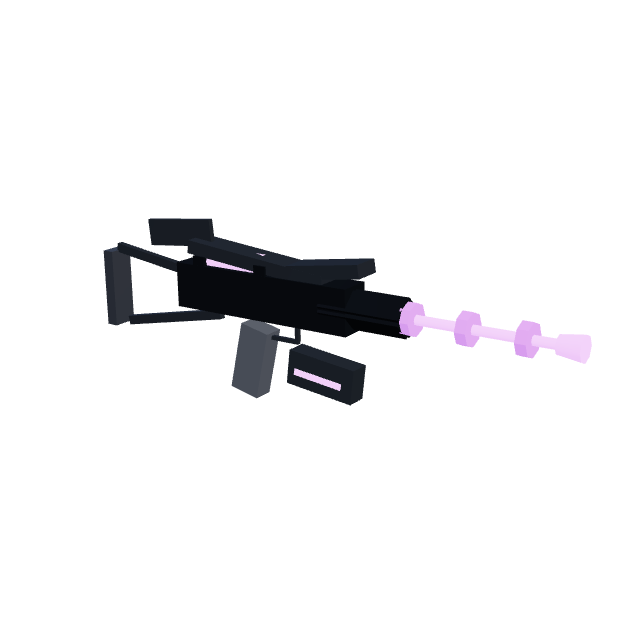
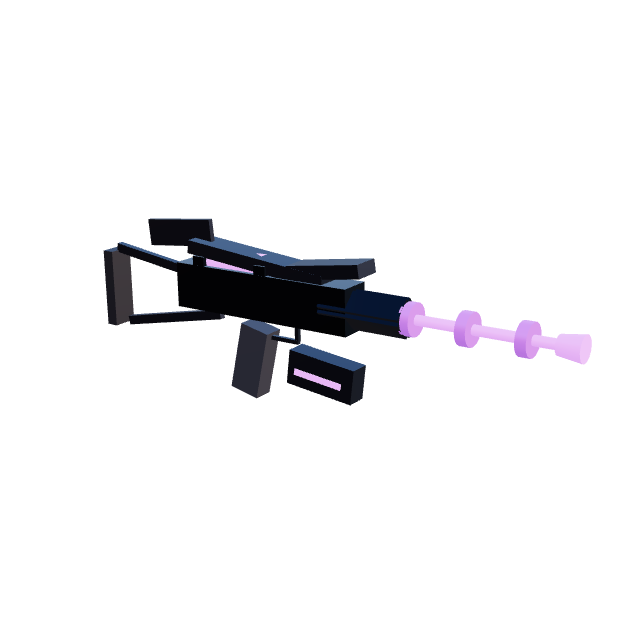
feat(art): PBR + HDRI reflections on the marketplace weapon/item art
Overhauls the procedural gun/item materials toward real gunmetal: drops
flat-shading, raises metalness with a strong envMapIntensity, adds an HDRI
environment (venice_sunset) to the bake scene so metal actually reflects, uses
a clearcoat physical material for polymer furniture, and rounds the barrels
(higher cylinder segments). Re-tunes the bake lighting/exposure so reflections
read instead of blowing out, and re-bakes all 13 catalogue PNGs. Bake script
now retries the transient dev-mode empty-frame error.

An incremental 'more real' lift, but the box geometry is the ceiling — reaching
'actual real assets' needs modeled/generated meshes (next step, TBD).

Changed region(s): [[0.2812, 0.375, 0.9062, 0.5625], [0.3438, 0.5, 0.5625, 0.625], [0.1875, 0.375, 0.25, 0.4062]]

diff --git a/apps/web/src/engine/scene/GunMesh.ts b/apps/web/src/engine/scene/GunMesh.ts
@@ -17,10 +17,13 @@ import type { GunId } from '../combat/GunStats';
  */
 
 // ── Shared palette ────────────────────────────────────────────────────────────
-const METAL_DARK = 0x252a32; // receivers, slides
-const METAL = 0x39404a;      // secondary metal
-const POLYMER = 0x424750;    // furniture: grips, stocks, handguards
-const POLYMER_DARK = 0x2c313a;
+// Real gunmetal is near-black with a cold blue cast; the polymer furniture is a
+// desaturated graphite. The realism comes less from colour than from PBR values
+// + an environment map (set via scene.environment) that these surfaces reflect.
+const METAL_DARK = 0x2b313a; // receivers, slides — blued steel that catches light
+const METAL = 0x3c434e;      // secondary metal — parkerised grey
+const POLYMER = 0x363b43;    // furniture: grips, stocks, handguards
+const POLYMER_DARK = 0x21252b;
 
 interface GunKit {
   body: THREE.MeshStandardMaterial;
@@ -40,15 +43,25 @@ const ACCENTS: Record<GunId, { color: number; glow: number }> = {
   legendary:     { color: 0xb070ff, glow: 1.5 },
 };
 
+/** Molded-polymer furniture: matte with a faint clearcoat sheen, not shiny. */
+function polymer(color: number, roughness: number): THREE.MeshPhysicalMaterial {
+  return new THREE.MeshPhysicalMaterial({
+    color, metalness: 0.0, roughness,
+    clearcoat: 0.35, clearcoatRoughness: 0.55, envMapIntensity: 0.8,
+  });
+}
+
 function makeKit(gunId: GunId): GunKit {
   const a = ACCENTS[gunId];
   return {
-    body: new THREE.MeshStandardMaterial({ color: METAL_DARK, metalness: 0.7, roughness: 0.38, flatShading: true }),
-    metal: new THREE.MeshStandardMaterial({ color: METAL, metalness: 0.65, roughness: 0.42, flatShading: true }),
-    furn: new THREE.MeshStandardMaterial({ color: POLYMER, metalness: 0.15, roughness: 0.7, flatShading: true }),
-    furnDark: new THREE.MeshStandardMaterial({ color: POLYMER_DARK, metalness: 0.2, roughness: 0.65, flatShading: true }),
-    accent: new THREE.MeshStandardMaterial({ color: a.color, metalness: 0.45, roughness: 0.4, emissive: a.color, emissiveIntensity: a.glow * 0.4, flatShading: true }),
-    glow: new THREE.MeshStandardMaterial({ color: a.color, emissive: a.color, emissiveIntensity: a.glow, metalness: 0.2, roughness: 0.35 }),
+    // Blued/parkerised steel: high metalness, mid-low roughness, and a strong
+    // envMapIntensity so it actually catches reflections and reads as metal.
+    body: new THREE.MeshStandardMaterial({ color: METAL_DARK, metalness: 0.95, roughness: 0.3, envMapIntensity: 1.8 }),
+    metal: new THREE.MeshStandardMaterial({ color: METAL, metalness: 0.9, roughness: 0.4, envMapIntensity: 1.5 }),
+    furn: polymer(POLYMER, 0.58),
+    furnDark: polymer(POLYMER_DARK, 0.62),
+    accent: new THREE.MeshStandardMaterial({ color: a.color, metalness: 0.55, roughness: 0.35, emissive: a.color, emissiveIntensity: a.glow * 0.4, envMapIntensity: 1.0 }),
+    glow: new THREE.MeshStandardMaterial({ color: a.color, emissive: a.color, emissiveIntensity: a.glow, metalness: 0.2, roughness: 0.3, envMapIntensity: 0.6 }),
     group: new THREE.Group(),
   };
 }
@@ -63,9 +76,10 @@ function box(k: GunKit, mat: THREE.Material, w: number, h: number, d: number,
   return m;
 }
 
-/** Cylinder whose axis runs along local +Z (the barrel direction). */
+/** Cylinder whose axis runs along local +Z (the barrel direction). Default sides
+ *  are high so barrels/suppressors read as round steel, not faceted toys. */
 function zCyl(k: GunKit, mat: THREE.Material, r0: number, r1: number, len: number,
-  x: number, y: number, z: number, sides = 10): THREE.Mesh {
+  x: number, y: number, z: number, sides = 24): THREE.Mesh {
   const m = new THREE.Mesh(new THREE.CylinderGeometry(r0, r1, len, sides), mat);
   m.rotation.x = Math.PI / 2;
   m.position.set(x, y, z);
@@ -141,8 +155,8 @@ function buildSmg(): THREE.Group {
   box(k, k.metal, 0.006, 0.006, 0.055, 0, -0.006, 0.026);
   box(k, k.metal, 0.006, 0.030, 0.006, 0, 0.008, 0.052);
   // collapsed wire stock: twin rods + butt plate
-  zCyl(k, k.metal, 0.006, 0.006, 0.130, 0.014, 0.052, -0.195, 6);
-  zCyl(k, k.metal, 0.006, 0.006, 0.130, -0.014, 0.052, -0.195, 6);
+  zCyl(k, k.metal, 0.006, 0.006, 0.130, 0.014, 0.052, -0.195, 16);
+  zCyl(k, k.metal, 0.006, 0.006, 0.130, -0.014, 0.052, -0.195, 16);
   box(k, k.furnDark, 0.052, 0.072, 0.016, 0, 0.044, -0.266);
   // ejection port
   box(k, k.accent, 0.002, 0.016, 0.040, 0.026, 0.058, -0.020);
@@ -181,7 +195,7 @@ function buildAssaultRifle(): THREE.Group {
   box(k, k.metal, 0.006, 0.006, 0.056, 0, -0.008, 0.030);
   box(k, k.metal, 0.006, 0.032, 0.006, 0, 0.008, 0.056);
   // buffer tube + fixed stock with cheek riser + butt pad
-  zCyl(k, k.metal, 0.015, 0.015, 0.100, 0, 0.070, -0.160, 8);
+  zCyl(k, k.metal, 0.015, 0.015, 0.100, 0, 0.070, -0.160, 16);
   box(k, k.furn, 0.040, 0.088, 0.140, 0, 0.036, -0.262);
   box(k, k.furn, 0.036, 0.026, 0.110, 0, 0.094, -0.256);
   box(k, k.furnDark, 0.046, 0.104, 0.016, 0, 0.032, -0.336);
@@ -219,7 +233,7 @@ function buildMarksman(): THREE.Group {
   );
   lens.position.set(0, 0.146, 0.1052);
   k.group.add(lens);
-  zCyl(k, k.metal, 0.010, 0.010, 0.016, 0, 0.178, -0.008, 8); // elevation turret
+  zCyl(k, k.metal, 0.010, 0.010, 0.016, 0, 0.178, -0.008, 16); // elevation turret
   box(k, k.metal, 0.030, 0.012, 0.014, 0.012, 0.146, -0.008); // windage turret
   // straight precision mag + accent base
   box(k, k.metal, 0.032, 0.100, 0.060, 0, -0.075, 0.060, 0.10);
@@ -235,8 +249,8 @@ function buildMarksman(): THREE.Group {
   box(k, k.furnDark, 0.046, 0.115, 0.018, 0, 0.024, -0.346);
   box(k, k.furn, 0.030, 0.050, 0.045, 0, -0.026, -0.290);
   // folded bipod legs under the handguard
-  zCyl(k, k.metal, 0.005, 0.005, 0.110, 0.016, 0.026, 0.320, 6);
-  zCyl(k, k.metal, 0.005, 0.005, 0.110, -0.016, 0.026, 0.320, 6);
+  zCyl(k, k.metal, 0.005, 0.005, 0.110, 0.016, 0.026, 0.320, 16);
+  zCyl(k, k.metal, 0.005, 0.005, 0.110, -0.016, 0.026, 0.320, 16);
 
   return finish(k, 'marksman', 0.058, 0.730);
 }
@@ -250,13 +264,13 @@ function buildLegendary(): THREE.Group {
   box(k, k.metal, 0.044, 0.020, 0.240, 0, 0.104, -0.010, 0.10);
   box(k, k.metal, 0.044, 0.020, 0.120, 0, 0.108, 0.110, -0.14);
   // exposed energy cell riding the spine
-  zCyl(k, k.glow, 0.019, 0.019, 0.095, 0, 0.096, -0.052, 8);
+  zCyl(k, k.glow, 0.019, 0.019, 0.095, 0, 0.096, -0.052, 16);
   box(k, k.body, 0.050, 0.016, 0.020, 0, 0.096, -0.108);
   box(k, k.body, 0.050, 0.016, 0.020, 0, 0.096, 0.004);
   // spine fin
   box(k, k.metal, 0.008, 0.040, 0.120, 0, 0.130, -0.160, -0.10);
   // emissive barrel rod inside a finned shroud
-  zCyl(k, k.glow, 0.0075, 0.0075, 0.360, 0, 0.056, 0.300, 8);
+  zCyl(k, k.glow, 0.0075, 0.0075, 0.360, 0, 0.056, 0.300, 16);
   for (const ang of [0.785, 2.356, 3.927, 5.498]) {
     const fin = box(k, k.body, 0.006, 0.034, 0.130, 0, 0.056, 0.170);
     fin.position.x = Math.cos(ang) * 0.020;
@@ -265,10 +279,10 @@ function buildLegendary(): THREE.Group {
   }
   // coil rings along the barrel
   for (let i = 0; i < 3; i++) {
-    zCyl(k, k.accent, 0.024, 0.024, 0.016, 0, 0.056, 0.240 + i * 0.085, 8);
+    zCyl(k, k.accent, 0.024, 0.024, 0.016, 0, 0.056, 0.240 + i * 0.085, 16);
   }
   // muzzle emitter ring
-  zCyl(k, k.glow, 0.019, 0.014, 0.035, 0, 0.056, 0.470, 8);
+  zCyl(k, k.glow, 0.019, 0.014, 0.035, 0, 0.056, 0.470, 16);
   // underslung capacitor with charge strip
   box(k, k.metal, 0.032, 0.052, 0.110, 0, -0.048, 0.100, 0.12);
   box(k, k.glow, 0.034, 0.010, 0.080, 0, -0.052, 0.096, 0.12);

diff --git a/apps/web/src/app/dev/bake-items/page.tsx b/apps/web/src/app/dev/bake-items/page.tsx
@@ -9,6 +9,7 @@
 import { Suspense, useLayoutEffect, useMemo } from 'react';
 import { useSearchParams } from 'next/navigation';
 import { Canvas, useThree } from '@react-three/fiber';
+import { Environment } from '@react-three/drei';
 import * as THREE from 'three';
 import { makeGunMesh } from '@/engine/scene/GunMesh';
 import { makeItemMesh, type ItemMeshId, ITEM_MESH_IDS } from '@/engine/scene/ItemMesh';
@@ -79,18 +80,24 @@ function BakeInner() {
         camera={{ fov: 30, position: [0, 0.2, 1.2] }}
         onCreated={({ gl, scene, camera }) => {
           gl.setClearColor(0x000000, 0);
-          gl.toneMappingExposure = 1.5;
+          // Lower exposure so the HDRI's specular highlights survive instead of
+          // blowing out to flat white — that's what sells the metal.
+          gl.toneMappingExposure = 1.05;
           scene.background = null;
           camera.lookAt(0, 0, 0);
         }}
         style={{ width: 640, height: 640 }}
       >
-        {/* Studio product lighting: warm key, cool rim, bounce fill */}
-        <ambientLight intensity={1.0} color={'#d6dce8'} />
-        <hemisphereLight intensity={0.9} color={'#eef1f8'} groundColor={'#565c66'} />
-        <directionalLight position={[2.5, 3, 3.5]} intensity={3.4} color={'#fff2df'} />
-        <directionalLight position={[-3.5, 1.5, -2.5]} intensity={1.8} color={'#9fc3ff'} />
-        <directionalLight position={[0, -2, 2]} intensity={0.8} color={'#ffffff'} />
+        {/* HDRI reflections make the metal read as metal — the single biggest
+            "real, not toy" lever. background stays off for the transparent bake. */}
+        <Suspense fallback={null}>
+          <Environment files="/hdri/venice_sunset_1k.hdr" background={false} environmentIntensity={1.15} />
+        </Suspense>
+        {/* A soft key + cool rim ON TOP of the HDRI — kept low so reflections,
+            not raw diffuse, define the surface. */}
+        <ambientLight intensity={0.15} color={'#d6dce8'} />
+        <directionalLight position={[2.5, 3, 3.5]} intensity={1.4} color={'#fff2df'} />
+        <directionalLight position={[-3.5, 1.5, -2.5]} intensity={1.1} color={'#9fc3ff'} />
         <Subject name={asset} />
       </Canvas>
       {/* index for the bake script */}
